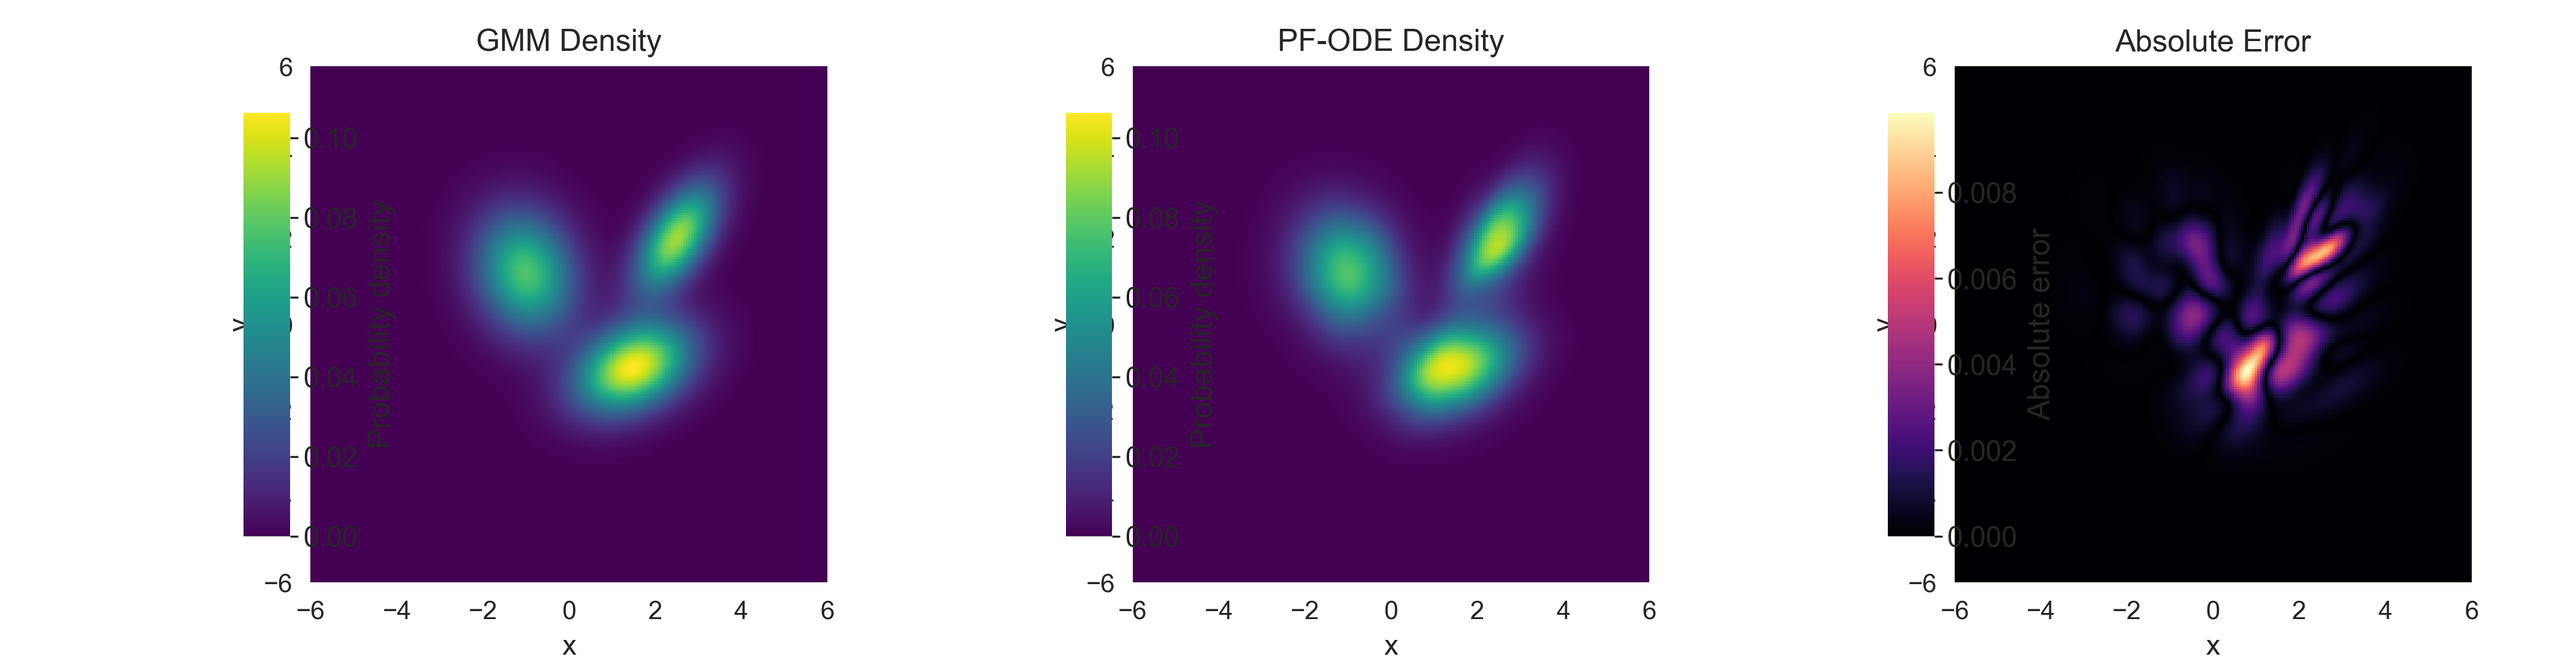
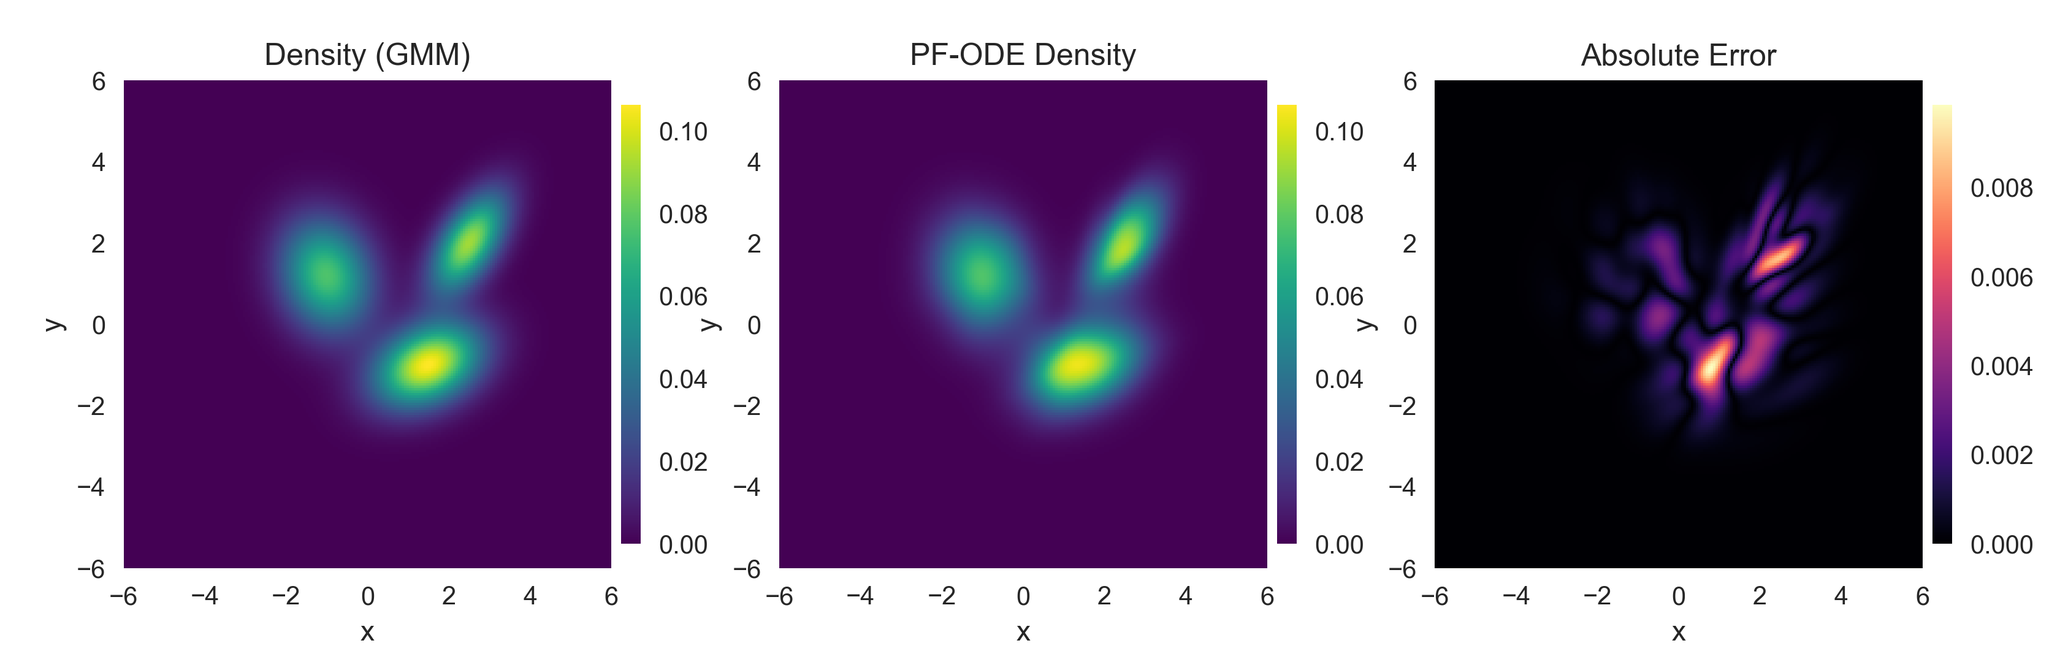
绘图

diff --git a/show_density_heatmap.py b/show_density_heatmap.py
@@ -193,27 +193,26 @@ def main() -> None:
     output_dir.mkdir(parents=True, exist_ok=True)
     suffix = output_path.suffix if output_path.suffix else ".png"
     target_path = output_path if output_path.suffix else output_path.with_suffix(suffix)
-    figure_size = (14.0, 3.6)
+    figure_size = (11.2, 3.6)
 
     density_cmap = plt.get_cmap("viridis")
     error_cmap = plt.get_cmap("magma")
+    colorbar_height_frac = 0.85
+    colorbar_width_scale = 0.8
+    colorbar_left_shift = 0.03  # move colorbars left (figure coords) to avoid overlap
 
     fig = plt.figure(figsize=figure_size)
-    gs = fig.add_gridspec(1, 3, width_ratios=[1.0, 1.0, 1.0])
+    gs = fig.add_gridspec(1, 6, width_ratios=[1.0, 0.05, 1.0, 0.05, 1.0, 0.05])
     ax_analytic = fig.add_subplot(gs[0, 0])
-    ax_model = fig.add_subplot(gs[0, 1])
-    ax_error = fig.add_subplot(gs[0, 2])
+    cax_analytic = fig.add_subplot(gs[0, 1])
+    ax_model = fig.add_subplot(gs[0, 2])
+    cax_model = fig.add_subplot(gs[0, 3])
+    ax_error = fig.add_subplot(gs[0, 4])
+    cax_error = fig.add_subplot(gs[0, 5])
 
-    fig.subplots_adjust(left=0.10, right=0.98, top=0.90, bottom=0.12, wspace=0.32)
+    fig.subplots_adjust(left=0.06, right=0.98, top=0.90, bottom=0.12, wspace=0.28)
 
-    def make_cax(ref_ax, pad: float = 0.006, width: float = 0.02, height_frac: float = 0.82):
-        pos = ref_ax.get_position()
-        new_height = pos.height * height_frac
-        y0 = pos.y0 + (pos.height - new_height) * 0.5
-        x0 = pos.x0 - pad - width
-        return fig.add_axes([x0, y0, width, new_height])
-
-    def draw_panel(ax, data, title, cmap, cbar_label, vmin=None, vmax=None):
+    def draw_panel(ax, cax, data, title, cmap, cbar_label, vmin=None, vmax=None):
         im = ax.pcolormesh(grid_x, grid_y, data, shading="auto", cmap=cmap, vmin=vmin, vmax=vmax)
         ax.set_title(title)
         ax.set_xlabel("x")
@@ -223,35 +222,43 @@ def main() -> None:
             x_min, x_max, y_min, y_max = plot_bounds
             ax.set_xlim(x_min, x_max)
             ax.set_ylim(y_min, y_max)
-        cax = make_cax(ax, pad=0.008, width=0.018, height_frac=0.82)
         cbar = fig.colorbar(im, cax=cax)
-        cbar.set_label(cbar_label, fontsize=12)
-        cbar.ax.tick_params(labelsize=11, width=0.8, length=3, pad=2, direction="out")
+        if cbar_label:
+            cbar.set_label(cbar_label)
+        cax_box = cax.get_position()
+        new_width = cax_box.width * colorbar_width_scale
+        new_height = cax_box.height * colorbar_height_frac
+        new_x0 = max(cax_box.x0 - colorbar_left_shift, 0.0)
+        new_y0 = cax_box.y0 + (cax_box.height - new_height) * 0.5
+        cax.set_position([new_x0, new_y0, new_width, new_height])
 
     draw_panel(
         ax_analytic,
+        cax_analytic,
         analytic_density,
-        "GMM Density",
+        "Density (GMM)",
         density_cmap,
-        "Probability density",
+        "",
         vmin=density_vmin,
         vmax=density_vmax,
     )
     draw_panel(
         ax_model,
+        cax_model,
         model_density,
         "PF-ODE Density",
         density_cmap,
-        "Probability density",
+        "",
         vmin=density_vmin,
         vmax=density_vmax,
     )
     draw_panel(
         ax_error,
+        cax_error,
         abs_error,
         "Absolute Error",
         error_cmap,
-        "Absolute error",
+        "",
     )
 
     fig.savefig(target_path, dpi=300)
